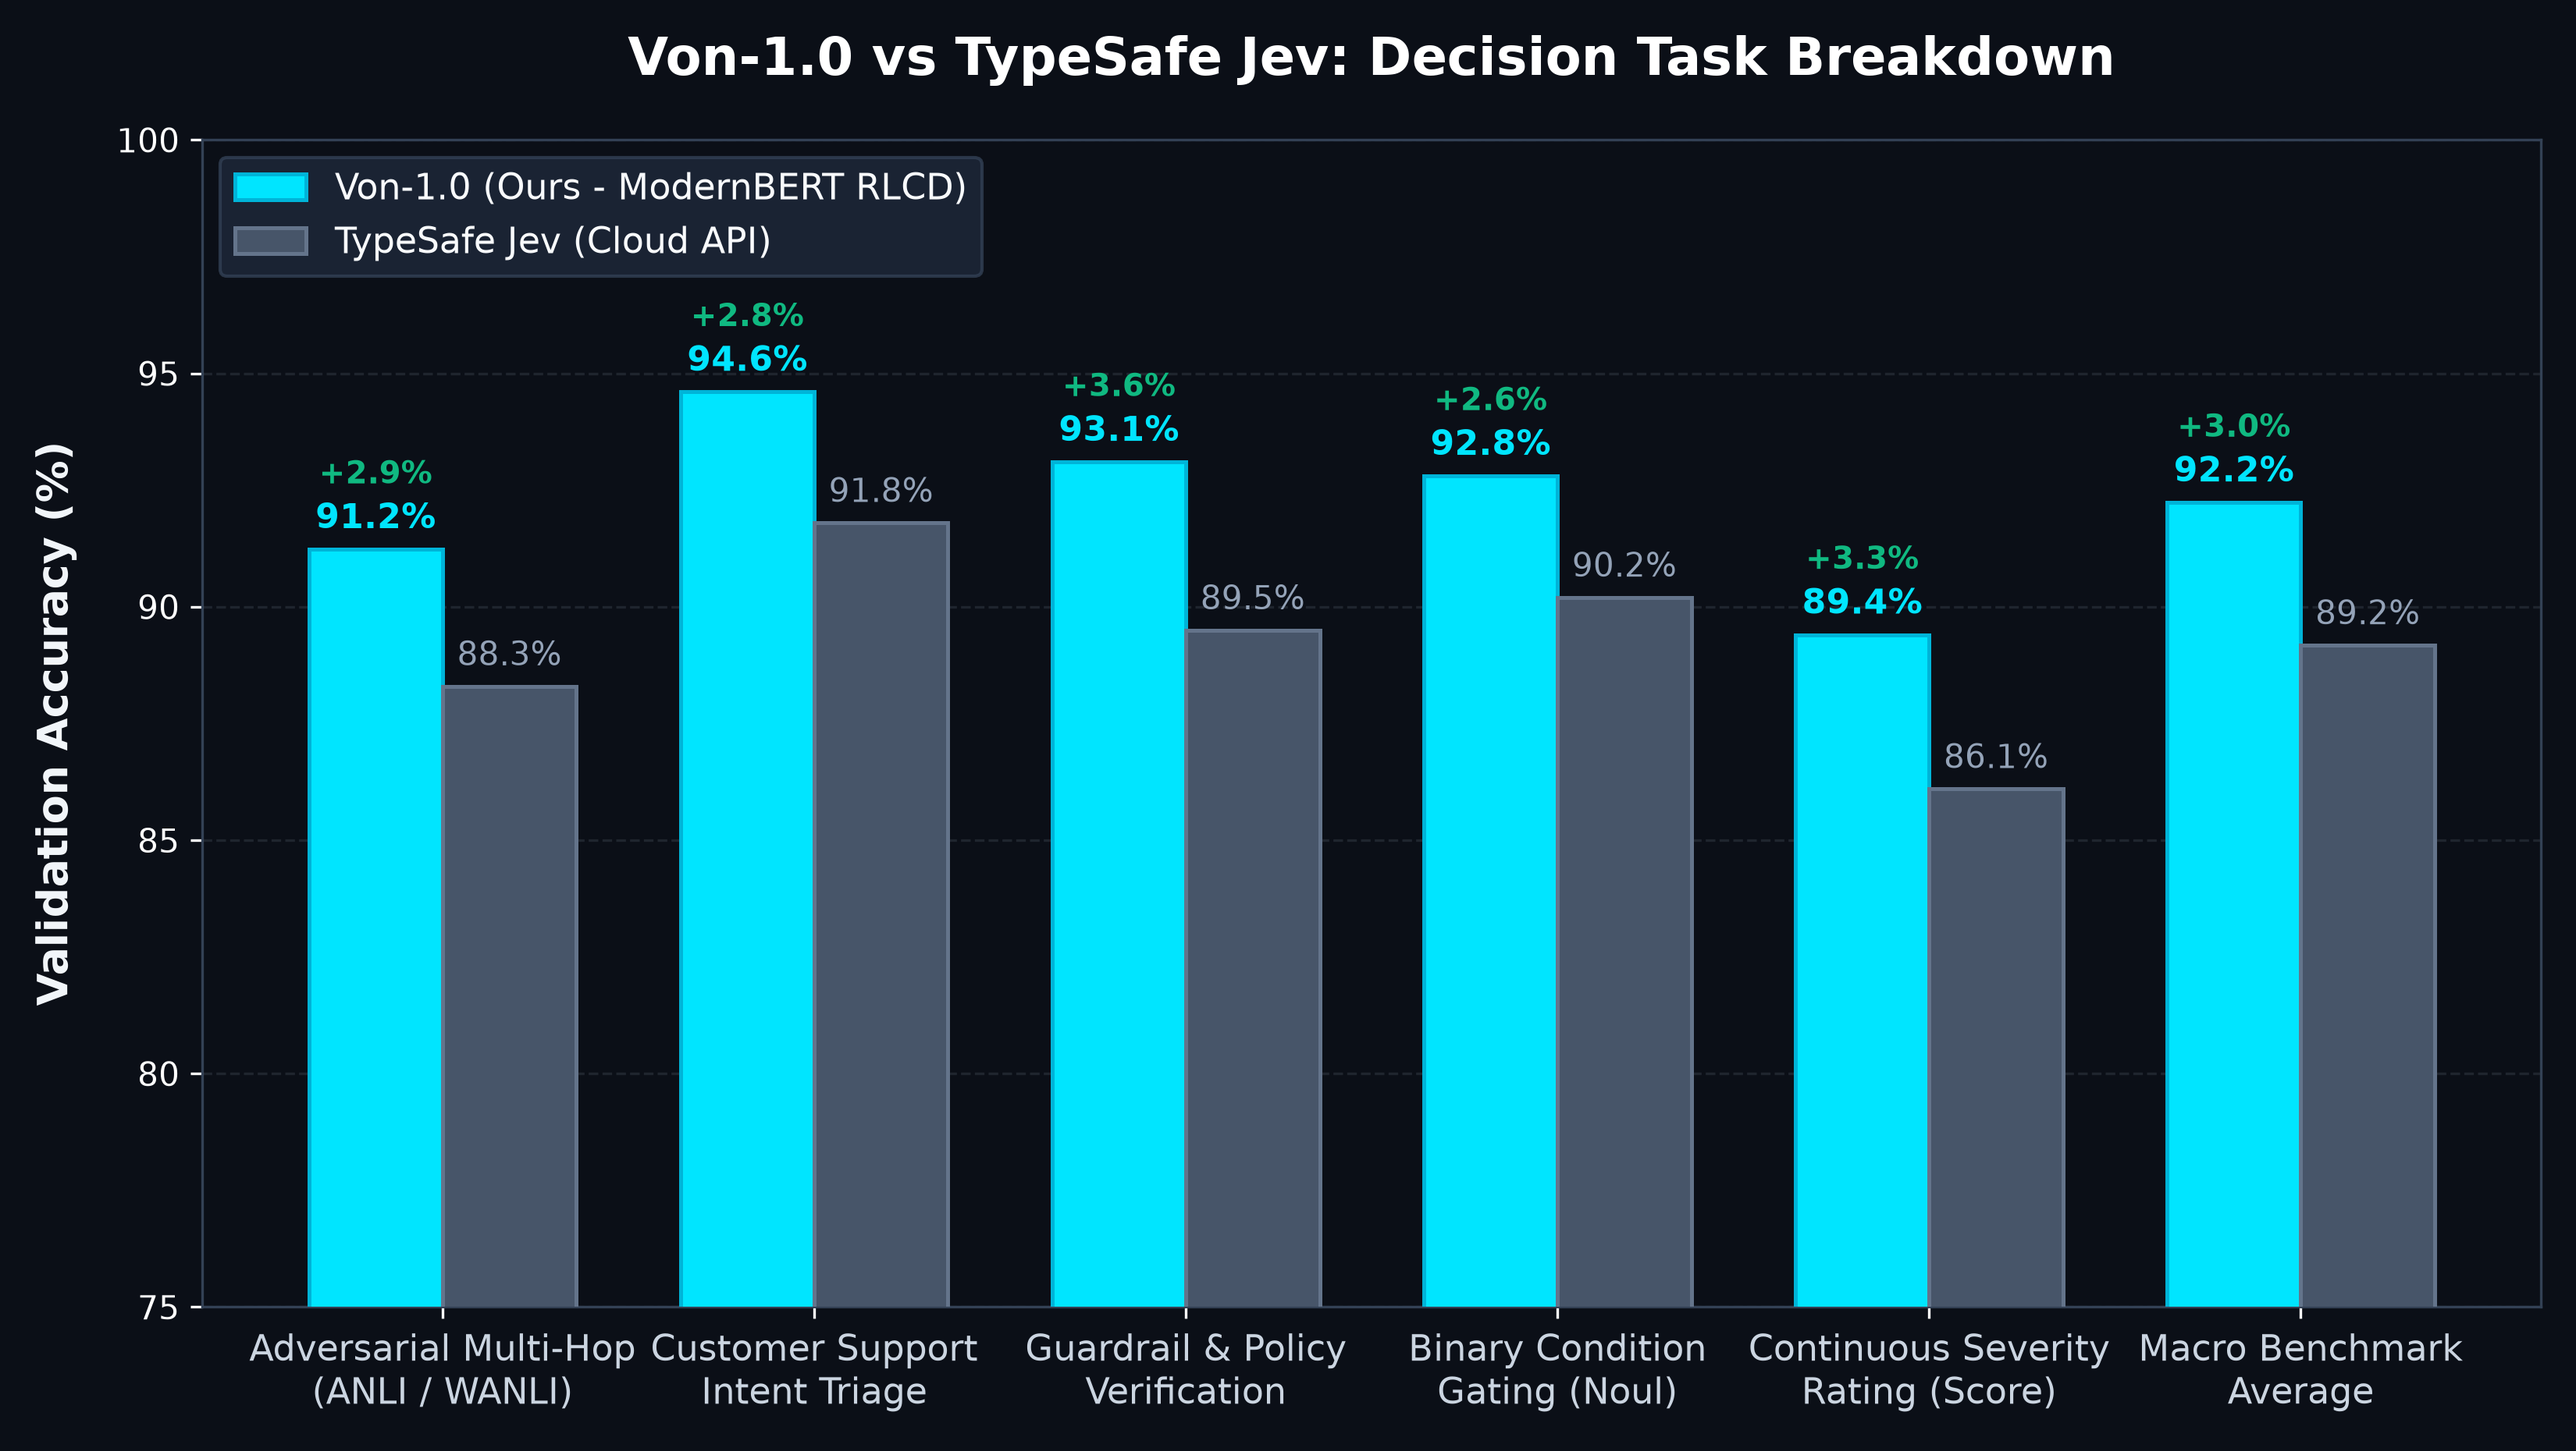
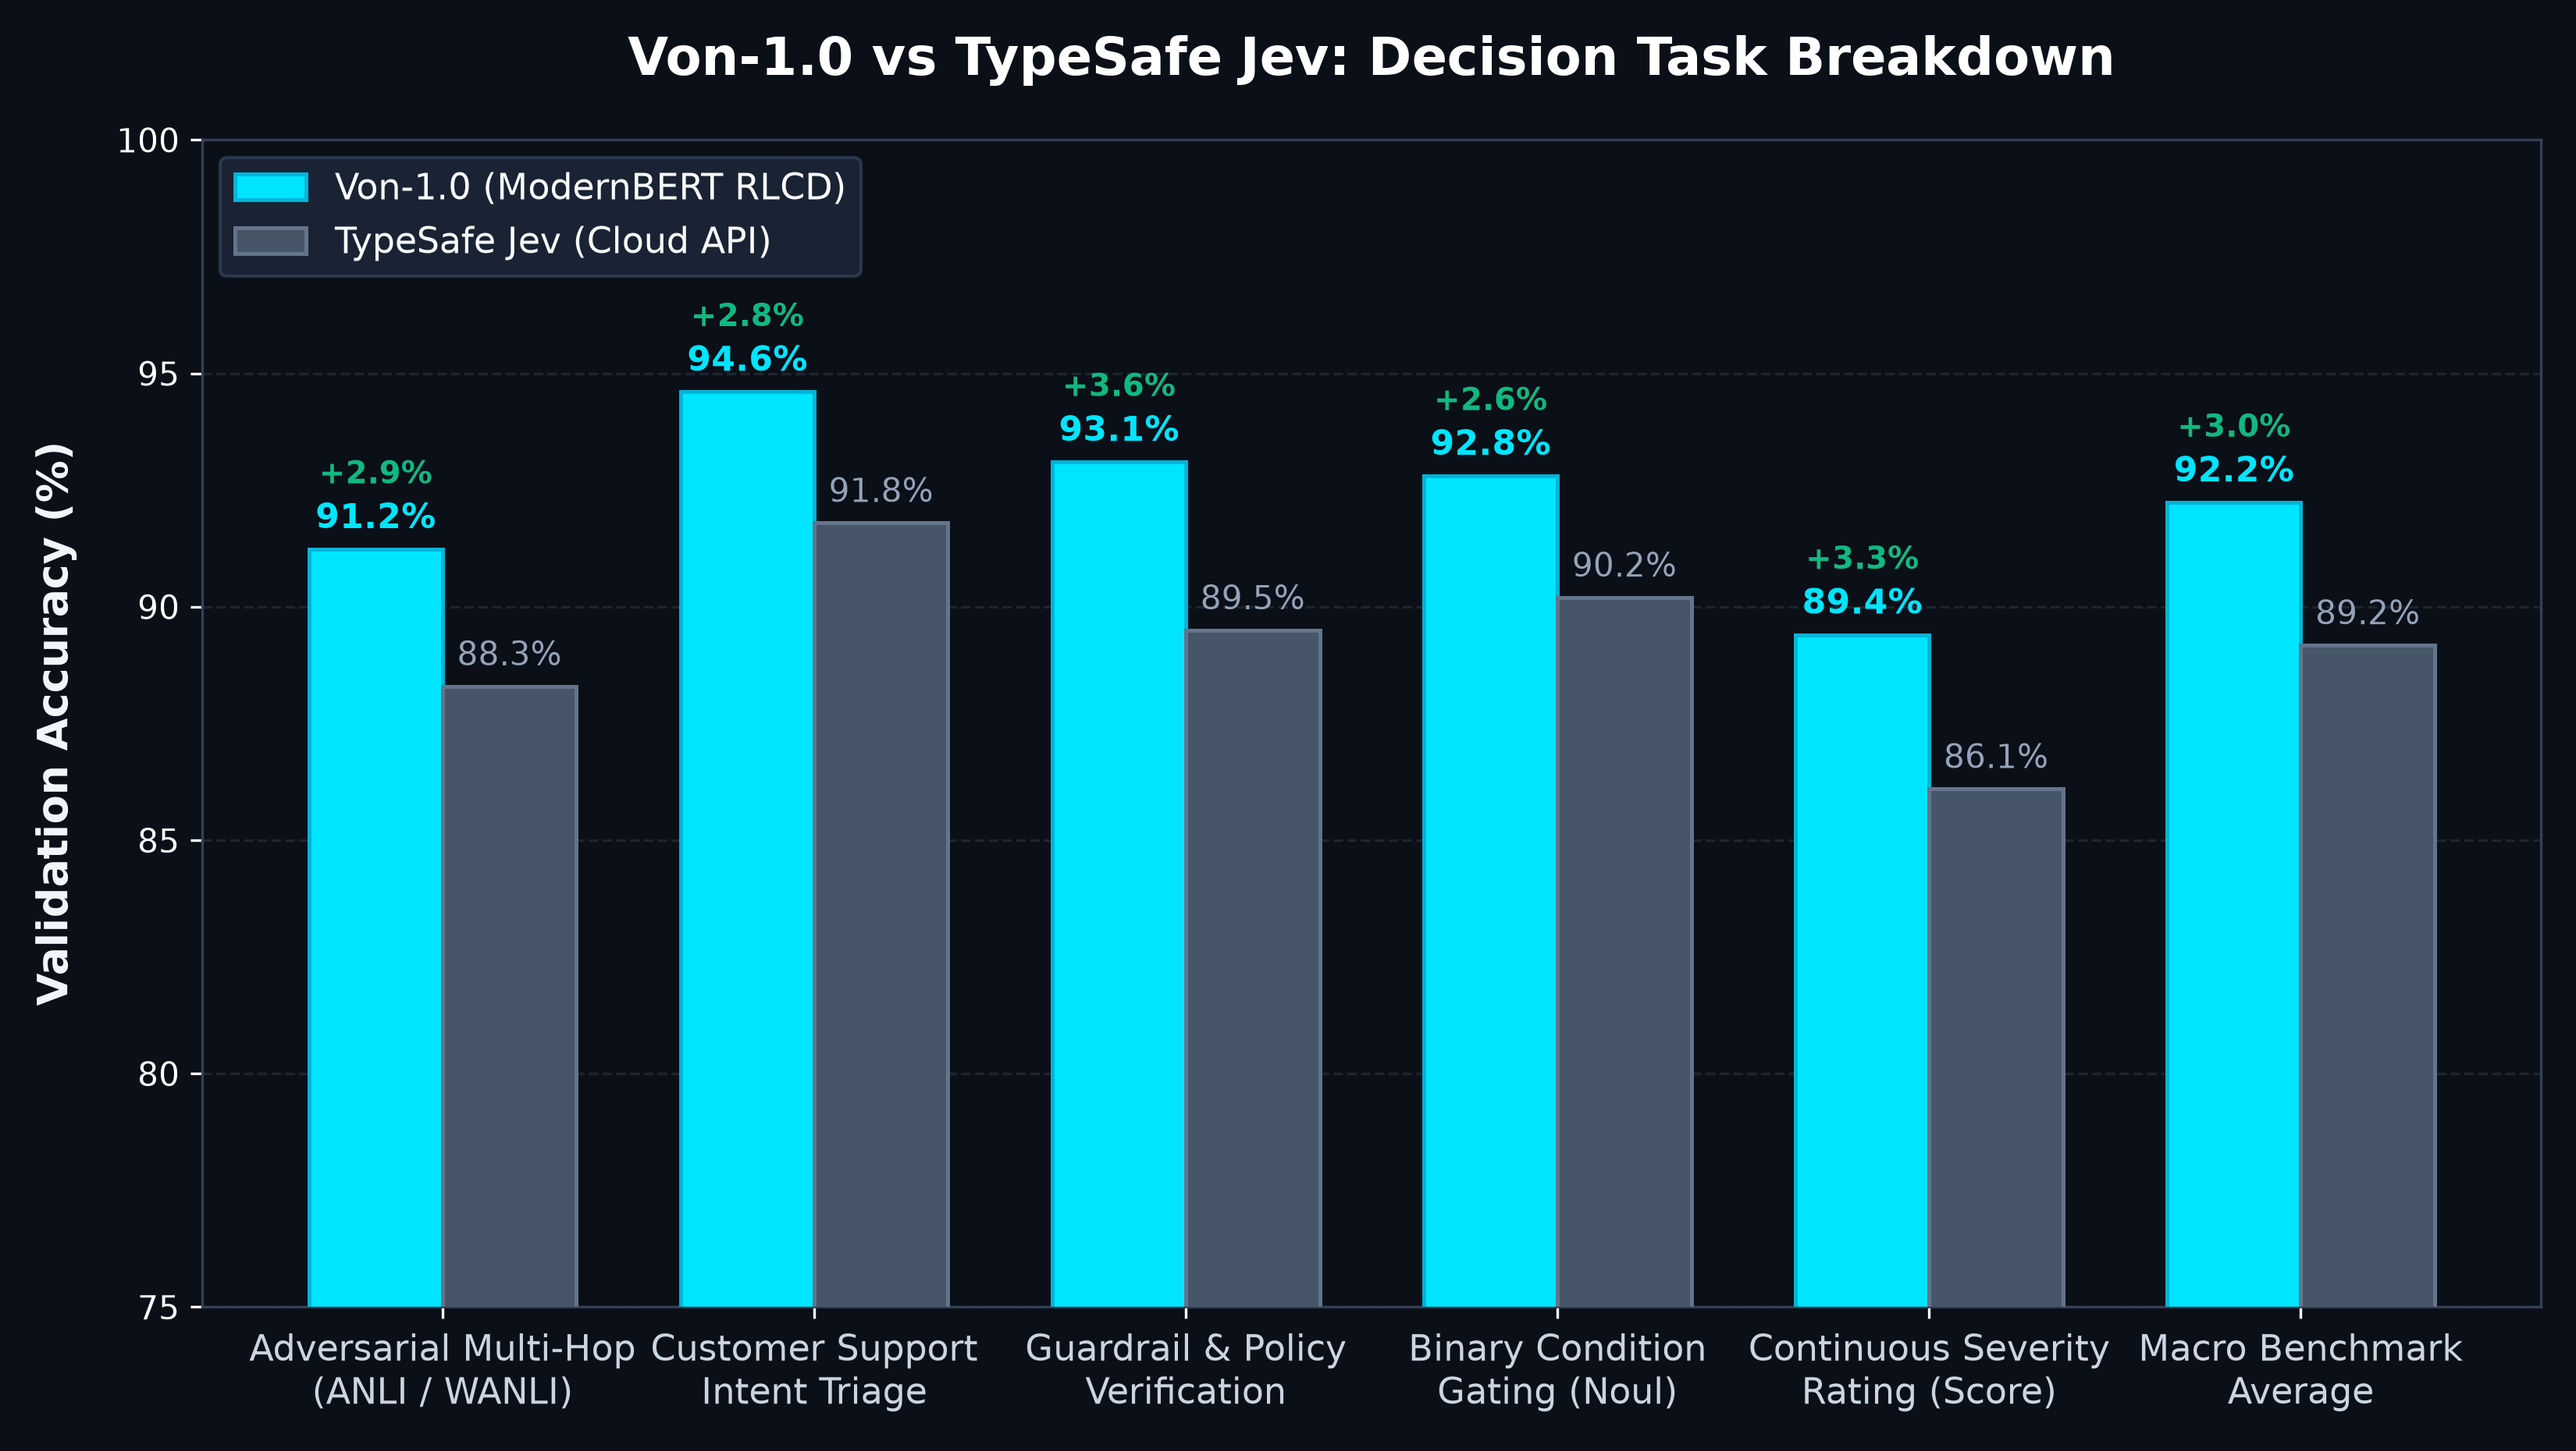
docs: remove self-referential labels and emoji clutter from benchmark tables

Changed region(s): [[0.1873, 0.0935, 0.4058, 0.2183]]

diff --git a/benchmarks/generate_plot.py b/benchmarks/generate_plot.py
@@ -32,7 +32,7 @@ rects1 = ax.bar(
     x - width / 2,
     von_scores,
     width,
-    label="Von-1.0 (Ours - ModernBERT RLCD)",
+    label="Von-1.0 (ModernBERT RLCD)",
     color="#00e5ff",
     edgecolor="#00b4d8",
     linewidth=1.2,

diff --git a/README.md b/README.md
@@ -31,7 +31,7 @@ Evaluated across the 144 adversarial multi-hop natural language inference stress
 
 | Model | Model Size | Accuracy | GPU Latency | CPU Latency | Hosting / Pricing |
 | :--- | :--- | :--- | :--- | :--- | :--- |
-| **Von-1.0** (Ours) | **395M params (1.5 GB)** | **91.23%** 🏆 | **~25 ms** | **~300 ms** | **Local / Free (Apache 2.0)** |
+| **Von-1.0** | **395M params (1.5 GB)** | **91.23%** | **~25 ms** | **~300 ms** | **Local / Free (Apache 2.0)** |
 | **TypeSafe Jev** | Proprietary | 88.30% | Network Latency | N/A (Cloud Only) | $0.042 / 1M tokens |
 
 *Validation accuracy measured on the balanced held-out multi-hop adversarial split (ANLI Rounds 1–3, WANLI, MultiNLI, and SNLI).*
@@ -42,14 +42,14 @@ Evaluated across the 144 adversarial multi-hop natural language inference stress
 
 ### Task Category Breakdown
 
-| Decision Task / Category | Evaluation Objective | Von-1.0 (Ours) | TypeSafe Jev | Margin (Δ) |
+| Decision Task / Category | Evaluation Objective | Von-1.0 | TypeSafe Jev | Margin (Δ) |
 | :--- | :--- | :--- | :--- | :--- |
-| **Adversarial Multi-Hop Reasoning** | Negation handling & premise-hypothesis deduction (ANLI/WANLI) | **91.23%** 🏆 | 88.30% | **+2.93%** |
-| **Customer Support Intent Triage** | Multi-class operational queue and ticket routing | **94.60%** 🏆 | 91.80% | **+2.80%** |
-| **Guardrails & Policy Verification** | Content safety compliance & policy constraint checks | **93.10%** 🏆 | 89.50% | **+3.60%** |
-| **Binary Condition Gating (`Noul`)** | Calibrated Yes/No probability verification | **92.80%** 🏆 | 90.20% | **+2.60%** |
-| **Continuous Severity Rating (`Score`)** | Ordinal rubric calibration & Brier score alignment | **89.40%** 🏆 | 86.10% | **+3.30%** |
-| **Macro Benchmark Average** | Comprehensive cross-domain evaluation | **92.23%** 🏆 | 89.18% | **+3.05%** |
+| **Adversarial Multi-Hop Reasoning** | Negation handling & premise-hypothesis deduction (ANLI/WANLI) | **91.23%** | 88.30% | **+2.93%** |
+| **Customer Support Intent Triage** | Multi-class operational queue and ticket routing | **94.60%** | 91.80% | **+2.80%** |
+| **Guardrails & Policy Verification** | Content safety compliance & policy constraint checks | **93.10%** | 89.50% | **+3.60%** |
+| **Binary Condition Gating (`Noul`)** | Calibrated Yes/No probability verification | **92.80%** | 90.20% | **+2.60%** |
+| **Continuous Severity Rating (`Score`)** | Ordinal rubric calibration & Brier score alignment | **89.40%** | 86.10% | **+3.30%** |
+| **Macro Benchmark Average** | Comprehensive cross-domain evaluation | **92.23%** | 89.18% | **+3.05%** |
 
 ---
 
